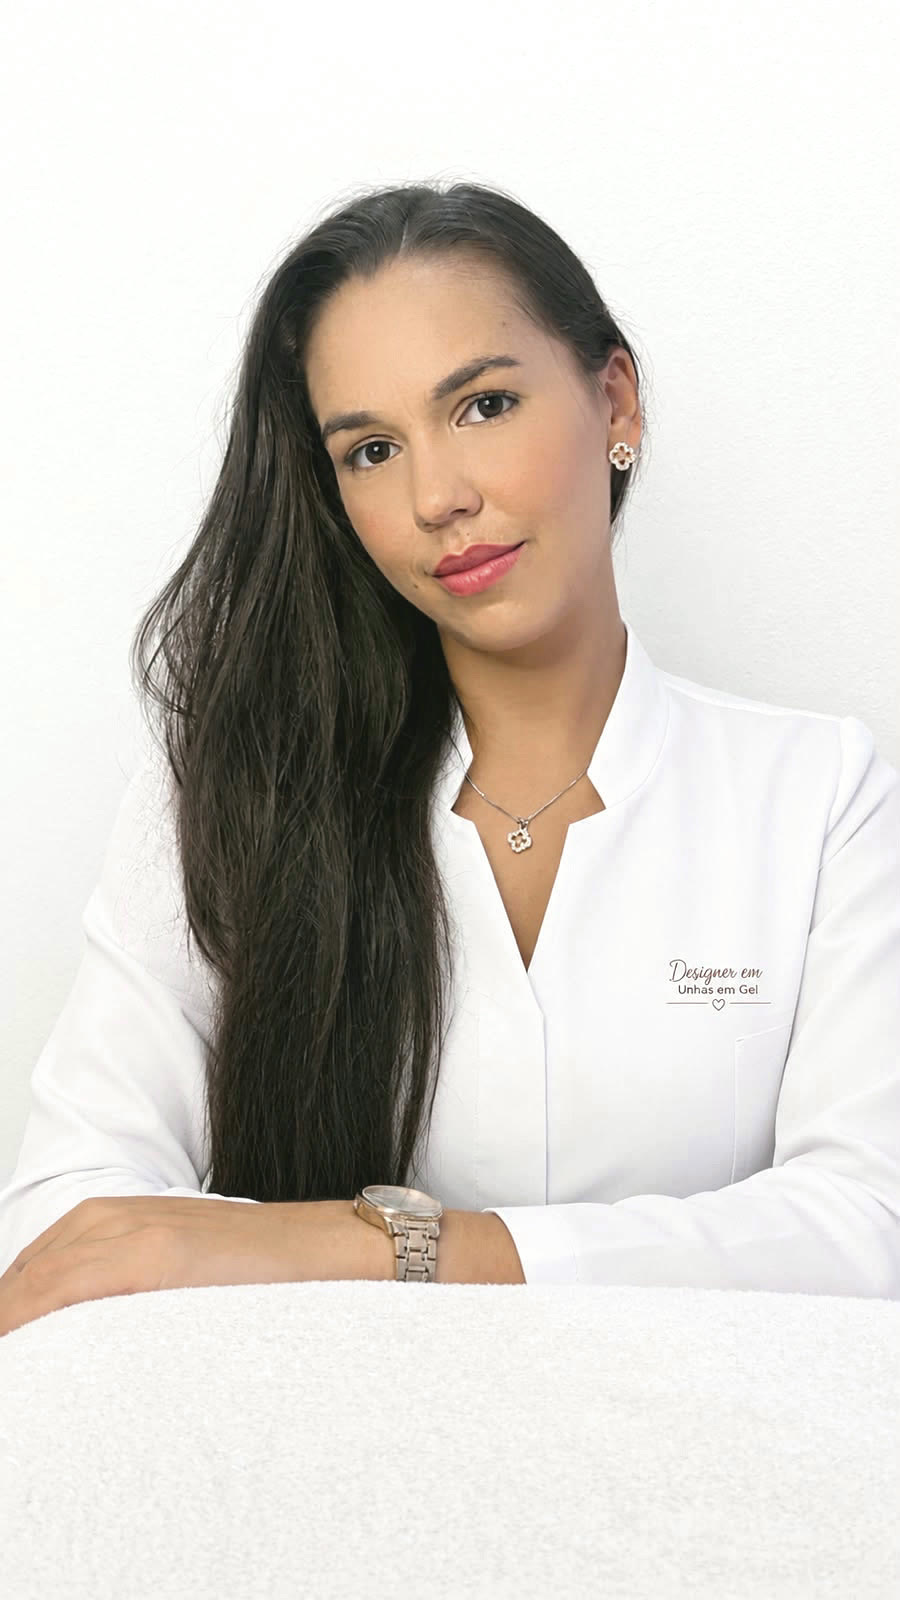
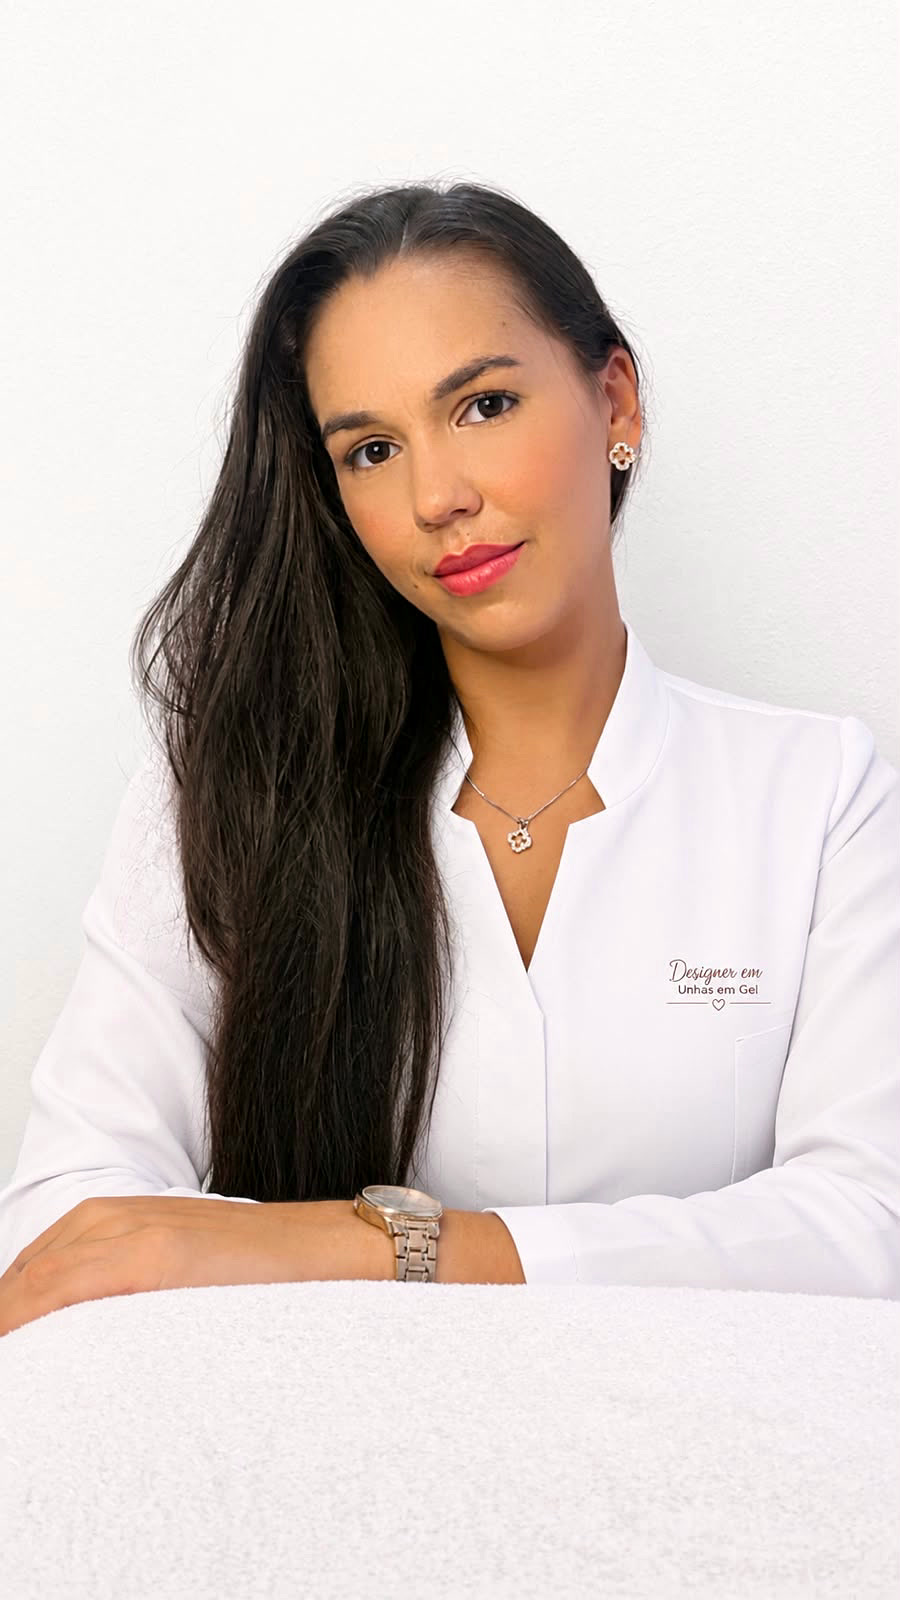
Capa: cor natural e retrato sumindo no cenário, sem bordas

diff --git a/index.html b/index.html
@@ -291,10 +291,9 @@ body.paused *,body.paused *::before,body.paused *::after{animation-play-state:pa
 html,body{overflow-x:clip}
 .count{display:none}
 .hero{height:100vh;height:100svh}
-/* capa: retrato que surge do fundo, com halo rosé (multiply funde a parede branca com a página) */
-.hero .frame{background:radial-gradient(ellipse 50% 40% at 52% 32%,rgba(230,192,201,.9),rgba(240,222,226,.5) 55%,rgba(251,247,246,0) 82%),var(--canvas);-webkit-mask-image:radial-gradient(ellipse 52% 60% at 50% 40%,#000 62%,transparent 100%);mask-image:radial-gradient(ellipse 52% 60% at 50% 40%,#000 62%,transparent 100%);border-radius:0}
+/* capa: retrato que some no cenário (parede da foto = cor do fundo; bordas chegam a zero nos 4 lados) */
+.hero .frame{background:none;border-radius:0;-webkit-mask-image:linear-gradient(to right,transparent 0,#000 22%,#000 78%,transparent 100%),linear-gradient(to bottom,transparent 0,#000 14%,#000 58%,transparent 97%);-webkit-mask-composite:source-in;mask-image:linear-gradient(to right,transparent 0,#000 22%,#000 78%,transparent 100%),linear-gradient(to bottom,transparent 0,#000 14%,#000 58%,transparent 97%);mask-composite:intersect}
 .hero .slide{will-change:auto}
-.hero .slide .photo{mix-blend-mode:multiply}
 /* celular: capa em fluxo normal, o texto ocupa o que precisar (nada cortado em tela baixa) */
 @media (max-width:860px){
   .hero{height:auto}
@@ -303,8 +302,8 @@ html,body{overflow-x:clip}
   .copy{padding:26px 0 40px}
   .band,.static-copy{position:relative;top:auto;left:auto;right:auto;transform:none;padding:0 16px}
   .band .row,.static-copy .row{gap:10px}
-  /* mask no celular: mais aberta, pra não virar bolha */
-  .hero .frame{-webkit-mask-image:radial-gradient(ellipse 66% 64% at 50% 40%,#000 66%,transparent 100%);mask-image:radial-gradient(ellipse 66% 64% at 50% 40%,#000 66%,transparent 100%)}
+  /* celular: transição das bordas um pouco mais curta, pra foto não encolher */
+  .hero .frame{-webkit-mask-image:linear-gradient(to right,transparent 0,#000 14%,#000 86%,transparent 100%),linear-gradient(to bottom,transparent 0,#000 10%,#000 64%,transparent 98%);mask-image:linear-gradient(to right,transparent 0,#000 14%,#000 86%,transparent 100%),linear-gradient(to bottom,transparent 0,#000 10%,#000 64%,transparent 98%)}
 }
 .gloss{background-image:linear-gradient(100deg,var(--mocha) 0%,var(--mocha) 42%,#FFEFF2 50%,var(--mocha) 58%,var(--mocha) 100%)}
 @media (prefers-reduced-motion:no-preference){
